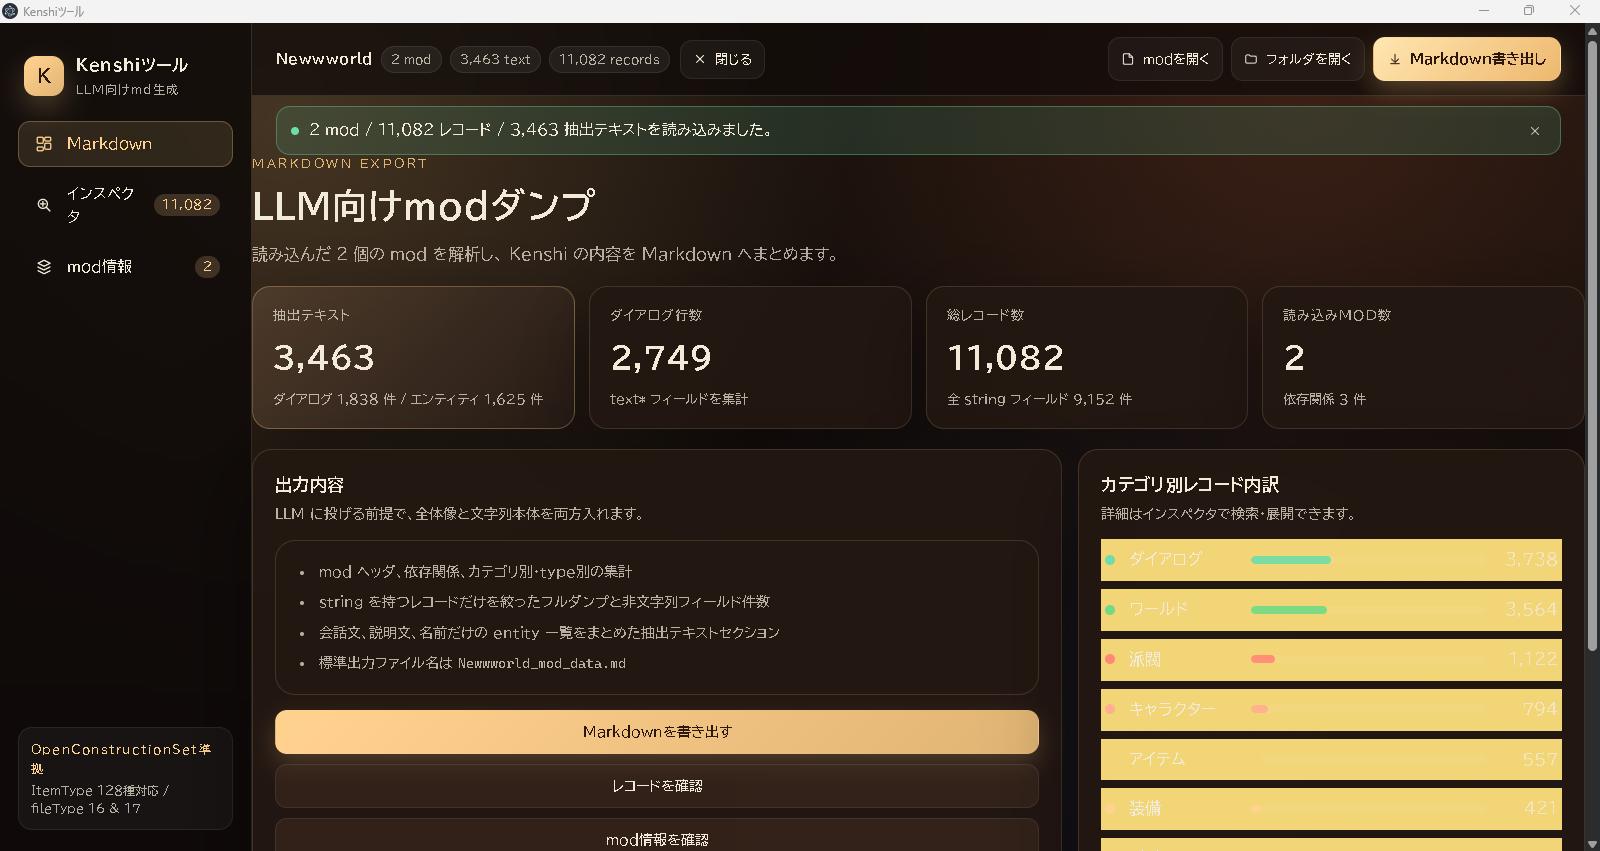
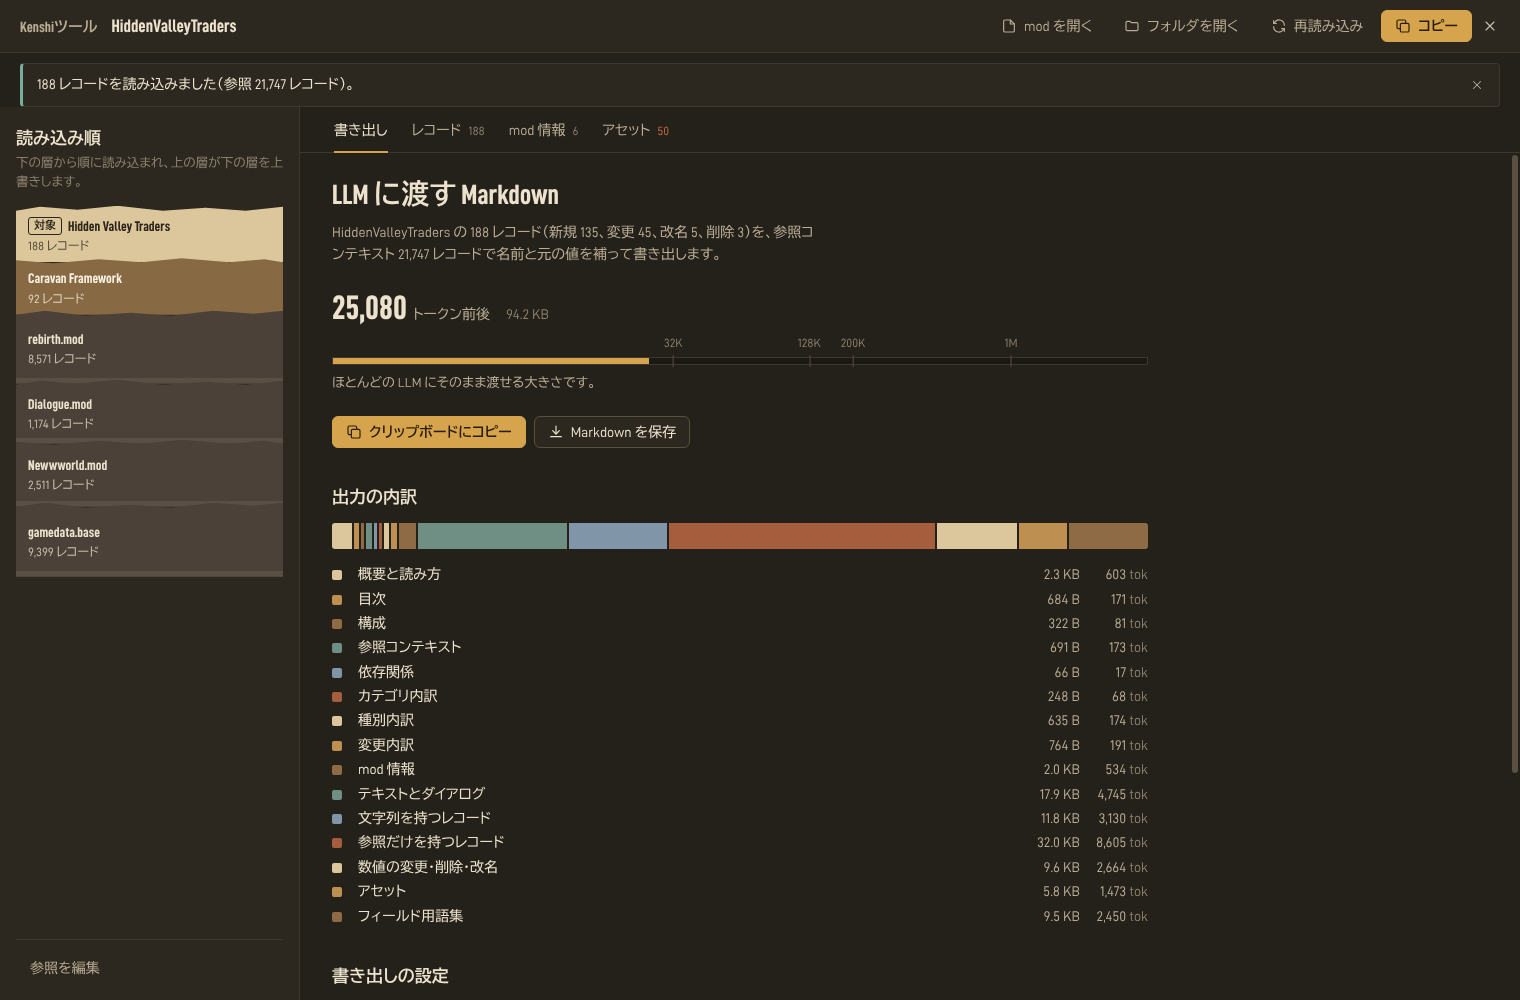
chore: bump version to 1.0.6 and add CodeRabbit badge (#15)
* chore: bump version 1.0.5 → 1.0.6

パーサ・Markdown 生成の修正と UI の全面刷新 (#14) を取り込んだリリース。

Claude-Session: https://claude.ai/code/session_01QPCjBR8UnD6qa1dTZpTLub

* docs: README に CodeRabbit のバッジを追加

Claude-Session: https://claude.ai/code/session_01QPCjBR8UnD6qa1dTZpTLub

* docs: README のスクリーンショットを刷新後の UI に更新

書き出し画面と mod 情報画面を、#14 で作り直した UI で撮り直した。
画面に写っている mod (Hidden Valley Traders / Caravan Framework) と
バニラ相当のファイルは、test/helpers/mod-writer.ts で生成したデモ用の
データなので、その旨を README に書き添えた。

Claude-Session: https://claude.ai/code/session_01QPCjBR8UnD6qa1dTZpTLub

* docs: スクリーンショット欄の注記を削除

Claude-Session: https://claude.ai/code/session_01QPCjBR8UnD6qa1dTZpTLub

---------

diff --git a/README.md b/README.md
@@ -5,6 +5,7 @@
 [![License: MIT](https://img.shields.io/github/license/kongyo2/kongyo-kenshi-tool)](LICENSE)
 [![Platform](https://img.shields.io/badge/platform-Windows-blue)](https://github.com/kongyo2/kongyo-kenshi-tool/releases/latest)
 [![Ask DeepWiki](https://deepwiki.com/badge.svg)](https://deepwiki.com/kongyo2/kongyo-kenshi-tool)
+![CodeRabbit Pull Request Reviews](https://img.shields.io/coderabbit/prs/github/kongyo2/kongyo-kenshi-tool?utm_source=oss&utm_medium=github&utm_campaign=kongyo2%2Fkongyo-kenshi-tool&labelColor=171717&color=FF570A&link=https%3A%2F%2Fcoderabbit.ai&label=CodeRabbit+Reviews)
 
 Kenshi の `.mod` を解析し、LLM に渡しやすい Markdown に変換する Electron + React 製デスクトップツールです。
 
